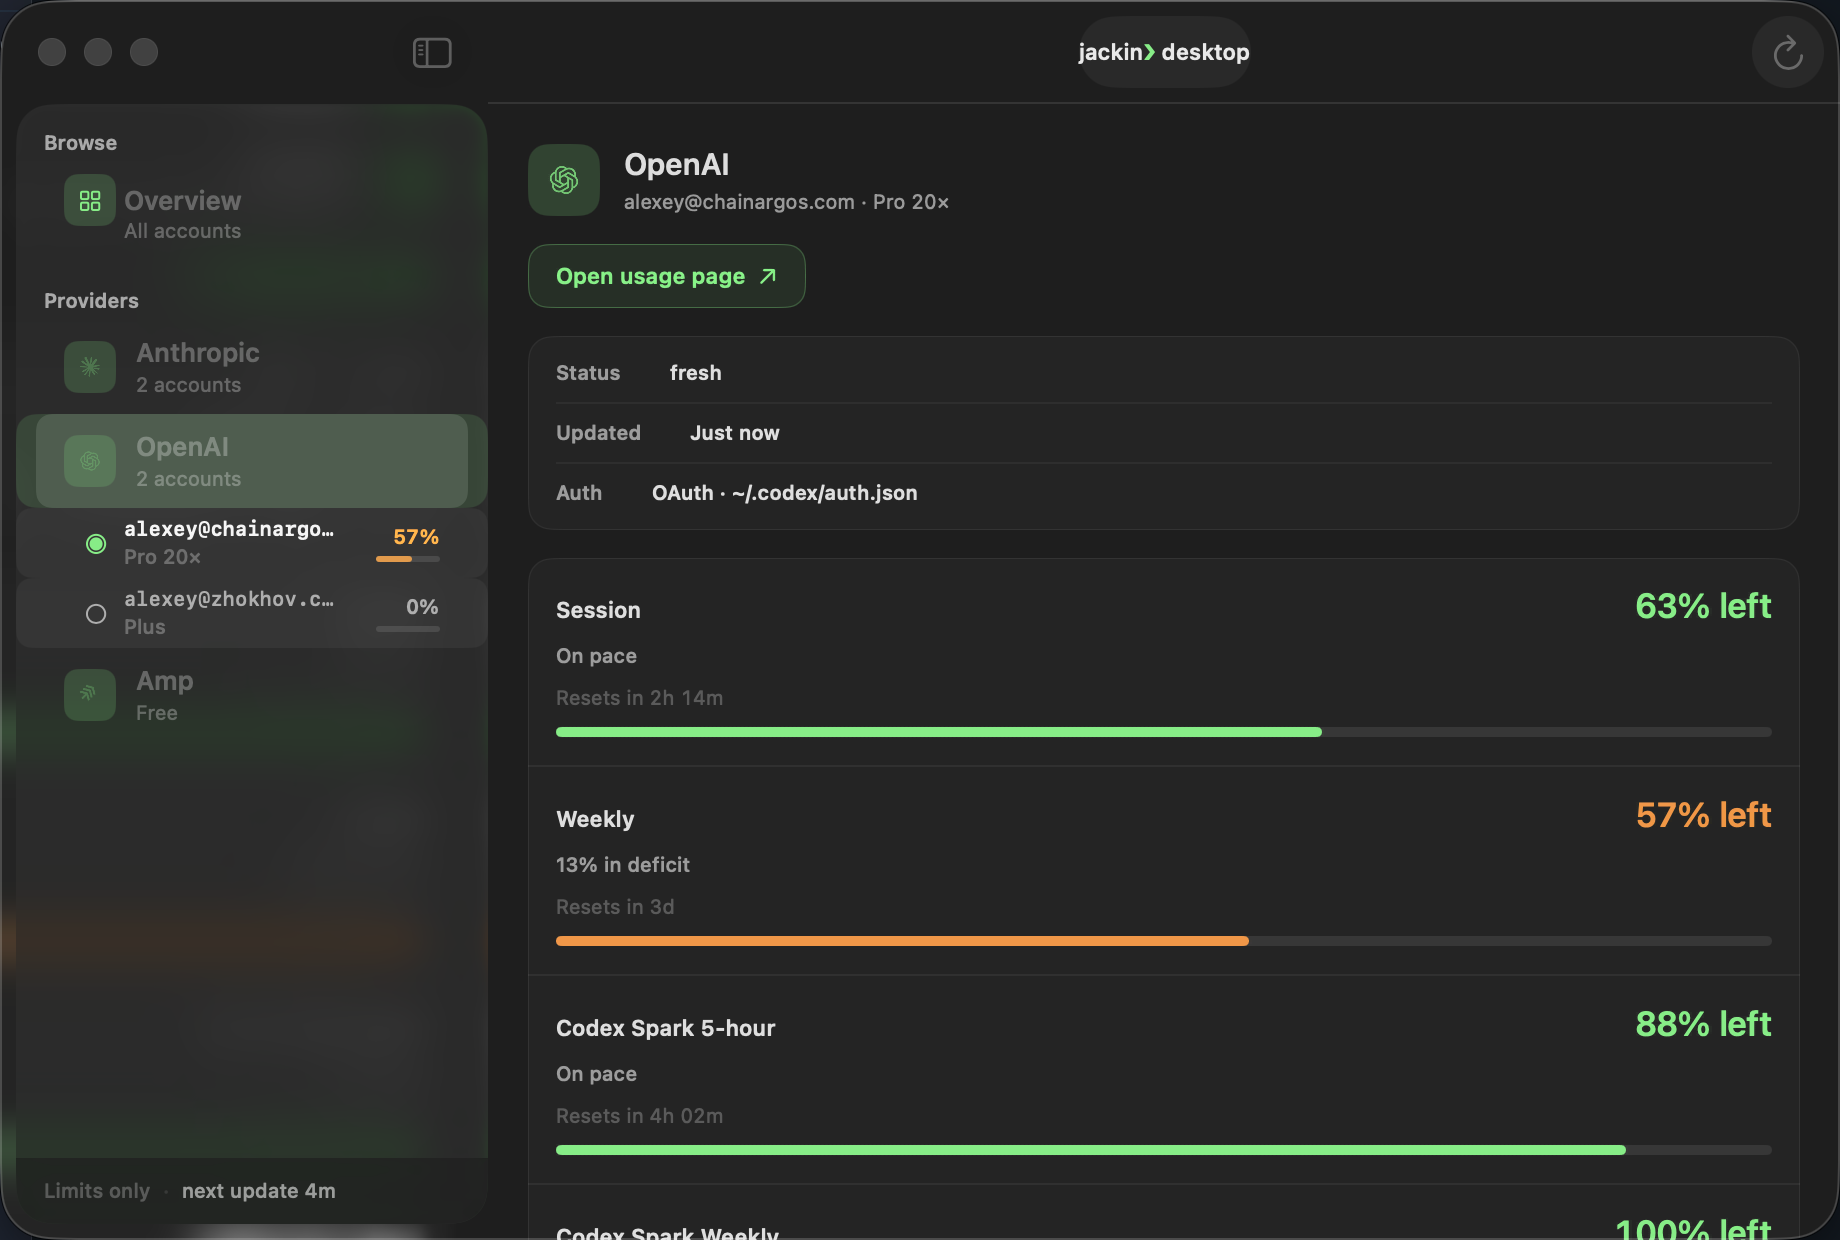
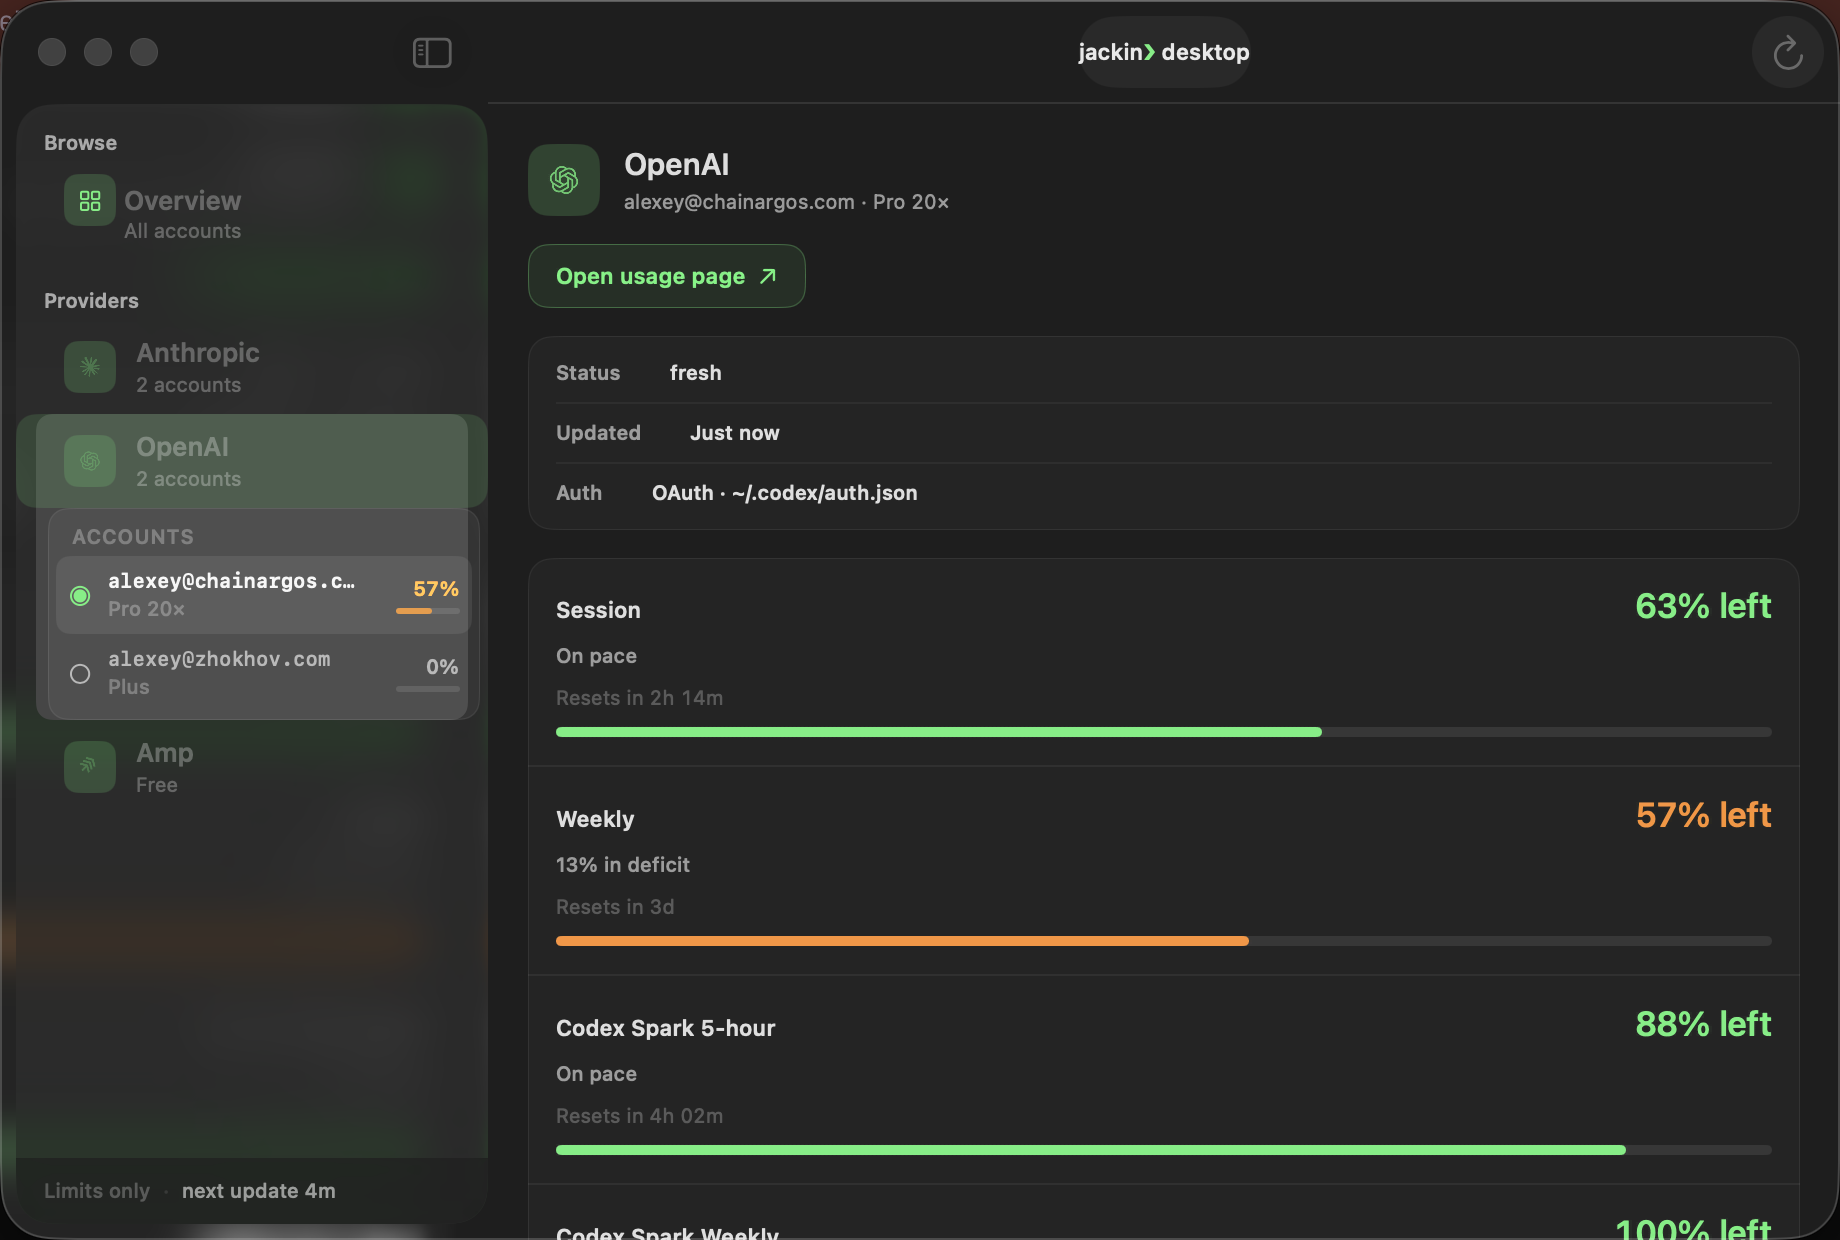
fix(desktop): unify Usage account rail
Live sidebar and QI component duplicated account-row structure, allowing full-width List rows to pass against an inset oracle. Share one labeled rail with selected-row craft.

diff --git a/native/Sources/JackinDesktop/UsageWindow/UsageWindowRoot.swift b/native/Sources/JackinDesktop/UsageWindow/UsageWindowRoot.swift
@@ -68,18 +68,22 @@ public struct UsageWindowRoot: View {
                         if store.usageSelection == row.surfaceId {
                             let accts = store.accountsForSurface(row.surfaceId)
                             if !accts.isEmpty {
-                                ForEach(accts) { account in
-                                    accountSidebarRow(
-                                        account,
-                                        multi: accts.count > 1
-                                    )
-                                    .listRowInsets(EdgeInsets(top: 2, leading: 18, bottom: 2, trailing: 8))
-                                    .listRowBackground(accountNestWellBackground)
+                                UsageAccountRailView(accounts: accts) { surfaceId, accountKey in
+                                    if accts.count > 1 {
+                                        store.setSelectedAccount(
+                                            surfaceId: surfaceId,
+                                            accountKey: accountKey
+                                        )
+                                    }
                                 }
+                                .listRowInsets(EdgeInsets(top: 0, leading: 0, bottom: 8, trailing: -12))
+                                .listRowBackground(Color.clear)
                             } else if !row.accountLabel.isEmpty {
-                                accountFallbackRow(row)
-                                    .listRowInsets(EdgeInsets(top: 2, leading: 18, bottom: 2, trailing: 8))
-                                    .listRowBackground(accountNestWellBackground)
+                                accountRail {
+                                    accountFallbackRow(row)
+                                }
+                                .listRowInsets(EdgeInsets(top: 0, leading: 0, bottom: 8, trailing: -12))
+                                .listRowBackground(Color.clear)
                             }
                         }
                     }
@@ -206,10 +210,28 @@ public struct UsageWindowRoot: View {
         }
     }
 
-    /// Inset nest under selected provider (HTML ACCOUNTS group).
-    private var accountNestWellBackground: some View {
-        RoundedRectangle(cornerRadius: 8, style: .continuous)
-            .fill(Color.primary.opacity(0.05))
+    /// Fallback inset shell when Rust has identity but no materialized account row.
+    private func accountRail<Rows: View>(@ViewBuilder rows: () -> Rows) -> some View {
+        VStack(alignment: .leading, spacing: 0) {
+            Text("Accounts")
+                .font(.system(size: 10, weight: .semibold))
+                .foregroundStyle(.tertiary)
+                .textCase(.uppercase)
+                .tracking(0.4)
+                .padding(.horizontal, 8)
+                .padding(.top, 4)
+                .padding(.bottom, 3)
+            rows()
+        }
+        .padding(4)
+        .background {
+            RoundedRectangle(cornerRadius: 10, style: .continuous)
+                .fill(Color.primary.opacity(0.055))
+                .overlay {
+                    RoundedRectangle(cornerRadius: 10, style: .continuous)
+                        .strokeBorder(Color.primary.opacity(0.10), lineWidth: 0.5)
+                }
+        }
     }
 
     private func sidebarProviderLogo(iconKey: String) -> some View {
@@ -241,60 +263,6 @@ public struct UsageWindowRoot: View {
             }
         }
         .frame(width: 26, height: 26)
-    }
-
-    /// Account row under selected provider — glance % from `list_accounts` / remainingPercent.
-    @ViewBuilder
-    private func accountSidebarRow(
-        _ account: PresentationStore.AccountRow,
-        multi: Bool
-    ) -> some View {
-        Button {
-            if multi {
-                store.setSelectedAccount(surfaceId: account.surfaceId, accountKey: account.accountKey)
-            }
-        } label: {
-            HStack(spacing: 8) {
-                if multi {
-                    Image(systemName: account.selected ? "circle.inset.filled" : "circle")
-                        .font(.caption2)
-                        .foregroundStyle(account.selected ? Color.jackinPhosphor : .secondary)
-                        .frame(width: 12)
-                }
-                VStack(alignment: .leading, spacing: 1) {
-                    Text(account.accountLabel)
-                        .font(.caption.monospaced().weight(account.selected || !multi ? .semibold : .medium))
-                        .lineLimit(1)
-                        .foregroundStyle(account.selected || !multi ? .primary : .secondary)
-                    if let plan = account.planLabel, !plan.isEmpty {
-                        Text(plan)
-                            .font(.caption2)
-                            .foregroundStyle(.tertiary)
-                            .lineLimit(1)
-                    }
-                }
-                Spacer(minLength: 4)
-                // Glance progress on account (HTML SoT): % + mini meter; 0% empty.
-                // Color = HTML a-pct / a-meter mid|low|high (severityTint).
-                if let pct = account.remainingPercent {
-                    let sev = account.meterSeverity
-                    VStack(alignment: .trailing, spacing: 3) {
-                        Text(verbatim: String(pct) + "%")
-                            .font(.caption.monospacedDigit().weight(.semibold))
-                            .foregroundStyle(
-                                pct == 0 ? Color.secondary : severityTint(sev)
-                            )
-                        UsageAccountMiniMeter(percent: pct, severity: sev)
-                    }
-                }
-            }
-            .padding(.vertical, 2)
-            .contentShape(Rectangle())
-        }
-        .buttonStyle(.plain)
-        .disabled(!multi)
-        .accessibilityLabel(accountSidebarAccessibility(account, multi: multi))
-        .accessibilityAddTraits(account.selected || !multi ? .isSelected : [])
     }
 
     @ViewBuilder
@@ -331,7 +299,8 @@ public struct UsageWindowRoot: View {
                     .foregroundStyle(.secondary)
             }
         }
-        .padding(.vertical, 2)
+        .padding(.horizontal, 8)
+        .padding(.vertical, 6)
     }
 
     private func providerAccessibilityLabel(_ row: PresentationStore.GlanceProviderRow) -> String {
@@ -340,17 +309,6 @@ public struct UsageWindowRoot: View {
             return "\(row.displayLabel), \(accts.count) accounts"
         }
         return row.displayLabel
-    }
-
-    private func accountSidebarAccessibility(
-        _ account: PresentationStore.AccountRow,
-        multi: Bool
-    ) -> String {
-        var parts = [account.accountLabel]
-        if let plan = account.planLabel, !plan.isEmpty { parts.append(plan) }
-        if let pct = account.remainingPercent { parts.append("\(pct) percent remaining") }
-        if multi, account.selected { parts.append("selected") }
-        return parts.joined(separator: ", ")
     }
 
     private var selectionBinding: Binding<String?> {

diff --git a/native/Sources/JackinDesktop/UsageWindow/UsageAccountNestView.swift b/native/Sources/JackinDesktop/UsageWindow/UsageAccountNestView.swift
@@ -34,17 +34,52 @@ public struct UsageAccountNestView: View {
                     .font(.caption)
                     .foregroundStyle(.tertiary)
             }
-            VStack(spacing: 4) {
-                ForEach(accounts) { account in
-                    accountRow(account, multi: accounts.count > 1)
-                }
-            }
-            .padding(6)
-            .background(Color.primary.opacity(0.05))
-            .cornerRadius(10)
+            UsageAccountRailView(
+                accounts: accounts,
+                onSelectAccount: onSelectAccount
+            )
         }
         .padding(8)
         .frame(maxWidth: .infinity, alignment: .leading)
+    }
+}
+
+/// Shared HTML `.acct-rail` used by live sidebar and deterministic QI host.
+public struct UsageAccountRailView: View {
+    public let accounts: [PresentationStore.AccountRow]
+    public let onSelectAccount: (String, String) -> Void
+
+    public init(
+        accounts: [PresentationStore.AccountRow],
+        onSelectAccount: @escaping (String, String) -> Void = { _, _ in }
+    ) {
+        self.accounts = accounts
+        self.onSelectAccount = onSelectAccount
+    }
+
+    public var body: some View {
+        VStack(alignment: .leading, spacing: 0) {
+            Text("Accounts")
+                .font(.system(size: 10, weight: .semibold))
+                .foregroundStyle(.tertiary)
+                .textCase(.uppercase)
+                .tracking(0.4)
+                .padding(.horizontal, 8)
+                .padding(.top, 4)
+                .padding(.bottom, 3)
+            ForEach(accounts) { account in
+                accountRow(account, multi: accounts.count > 1)
+            }
+        }
+        .padding(4)
+        .background {
+            RoundedRectangle(cornerRadius: 10, style: .continuous)
+                .fill(Color.primary.opacity(0.055))
+                .overlay {
+                    RoundedRectangle(cornerRadius: 10, style: .continuous)
+                        .strokeBorder(Color.primary.opacity(0.10), lineWidth: 0.5)
+                }
+        }
     }
 
     @ViewBuilder
@@ -92,8 +127,12 @@ public struct UsageAccountNestView: View {
                 }
             }
             .padding(6)
-            .background(Color.primary.opacity(account.selected ? 0.08 : 0.04))
-            .cornerRadius(8)
+            .background {
+                if account.selected {
+                    RoundedRectangle(cornerRadius: 7, style: .continuous)
+                        .fill(Color.primary.opacity(0.09))
+                }
+            }
             .contentShape(Rectangle())
         }
         .buttonStyle(.plain)

diff --git a/native/Tools/DesktopArchitectureLint/main.swift b/native/Tools/DesktopArchitectureLint/main.swift
@@ -40,6 +40,7 @@ struct DesktopArchitectureLint {
         checkStatusPopoverFocusWiring(desktopRoot: desktop)
         checkPrimaryControlCraft(desktopRoot: desktop)
         checkUsageDetailGrouping(desktopRoot: desktop)
+        checkUsageAccountRail(desktopRoot: desktop)
         run(desktopRoot: desktop)
     }
 
@@ -219,6 +220,28 @@ struct DesktopArchitectureLint {
             print("PASS  Usage detail groups limit rows in one list")
         } else {
             print("FAIL  Usage detail must retain one limit-list container with divided rows")
+            exit(1)
+        }
+    }
+
+    /// G-U4: account rows share one inset rail; list rows cannot each own a well.
+    static func checkUsageAccountRail(desktopRoot: URL) {
+        let path = desktopRoot.appendingPathComponent("UsageWindow/UsageWindowRoot.swift")
+        guard let text = try? String(contentsOf: path, encoding: .utf8) else {
+            fputs("FAIL  UsageWindowRoot.swift missing\n", stderr)
+            exit(2)
+        }
+        let required = [
+            "UsageAccountRailView(accounts: accts)",
+            ".listRowInsets(EdgeInsets(top: 0, leading: 0, bottom: 8, trailing: -12))",
+        ]
+        if required.allSatisfy(text.contains)
+            && !text.contains("listRowBackground(accountNestWellBackground)")
+            && !text.contains("private func accountSidebarRow")
+        {
+            print("PASS  Usage account rows share one inset rail")
+        } else {
+            print("FAIL  Usage account nest must retain one labeled inset rail")
             exit(1)
         }
     }

diff --git a/advisor-plans/qi-artifacts/deltas/2026-08-10-usage-provider-nest.md b/advisor-plans/qi-artifacts/deltas/2026-08-10-usage-provider-nest.md
@@ -1,6 +1,6 @@
 # QI delta: usage-provider-nest · Dark + Light (G-U3/G-U4)
 
-**Date:** 2026-08-10 · **Tip:** `bd3f3dc9`  
+**Date:** 2026-08-10 · **Tip:** `f1e17a38` + audited worktree  
 **Oracle HTML:** `html/usage-provider-nest-{dark,light}.png` (sidebar ACCOUNTS nest)  
 **Native:** `native/usage-provider-nest-{dark,light}.png` (UsageAccountNestView)
 
@@ -9,11 +9,19 @@
 | Check | HTML nest | Native nest | Match |
 |-------|-----------|-------------|-------|
 | Provider caption | OpenAI · multi | OpenAI · 2 accounts | Yes |
+| Rail shell | one labeled inset well | same | Yes |
 | Selected | radio · chainargos · **57%** orange meter | same | Yes |
 | Second | radio off · zhokhov · **0%** empty | same | Yes |
 | Plans | Pro 20× / Plus | same | Yes |
 | Provider % on provider row | none | nest is accounts-only | Yes |
 | Light theme | same nest IA | same | Yes |
+
+## False-pass correction
+
+Earlier full-shell evidence rendered each account as a separate full-width List
+row while the isolated QI component rendered a different nested structure. One
+shared `UsageAccountRailView` now owns the label, inset shell, stroke, rows, and
+selected-account fill in both live sidebar and deterministic captures.
 
 ## Different (not High)
 

diff --git a/advisor-plans/qi-artifacts/deltas/2026-08-10-usage-window-openai.md b/advisor-plans/qi-artifacts/deltas/2026-08-10-usage-window-openai.md
@@ -10,7 +10,7 @@
 |-------|------|--------|-------|
 | Toolbar | centered brand + Refresh | same | Yes |
 | Sidebar | floating glass navigation | same | Yes |
-| Provider nest | selected provider + two accounts | same | Yes |
+| Provider nest | labeled inset rail + two accounts | same | Yes |
 | Detail head | identity + external usage action | same | Yes |
 | Meta | one quiet details group | same | Yes |
 | Limits | one inset divided list | same | Yes |
@@ -22,6 +22,10 @@ Earlier full-window Dark and Light captures were byte-identical while the
 manifest reported both as Pass. Window appearance was inherited implicitly,
 and no cross-theme evidence gate existed. The harness now sets
 `NSWindow.appearance` and rejects byte-identical theme pairs.
+
+Second re-audit found live account rows owned separate full-width List
+backgrounds while the isolated QI component used different code. Live sidebar
+and QI host now share one `UsageAccountRailView`, preventing that drift.
 
 ## Different (not High)
 

diff --git a/advisor-plans/VISUAL_QA_LOG.md b/advisor-plans/VISUAL_QA_LOG.md
@@ -66,6 +66,11 @@ the `NSWindow` explicitly and rejects identical theme pairs. New theme-distinct
 full-shell captures prove the floating sidebar, centered toolbar, and single
 divided limit-list together.
 
+Account-nest re-audit removed full-width repeated List rows. One shared,
+labeled inset rail now owns both accounts, its hairline, and selected-account
+fill in the live sidebar and QI component. This also removes duplicate SwiftUI
+implementations that had allowed product and evidence to drift.
+
 ## Live
 popover-live / ctx-menu **BLOCKED** — SoTParity proves focus/menu.
 
